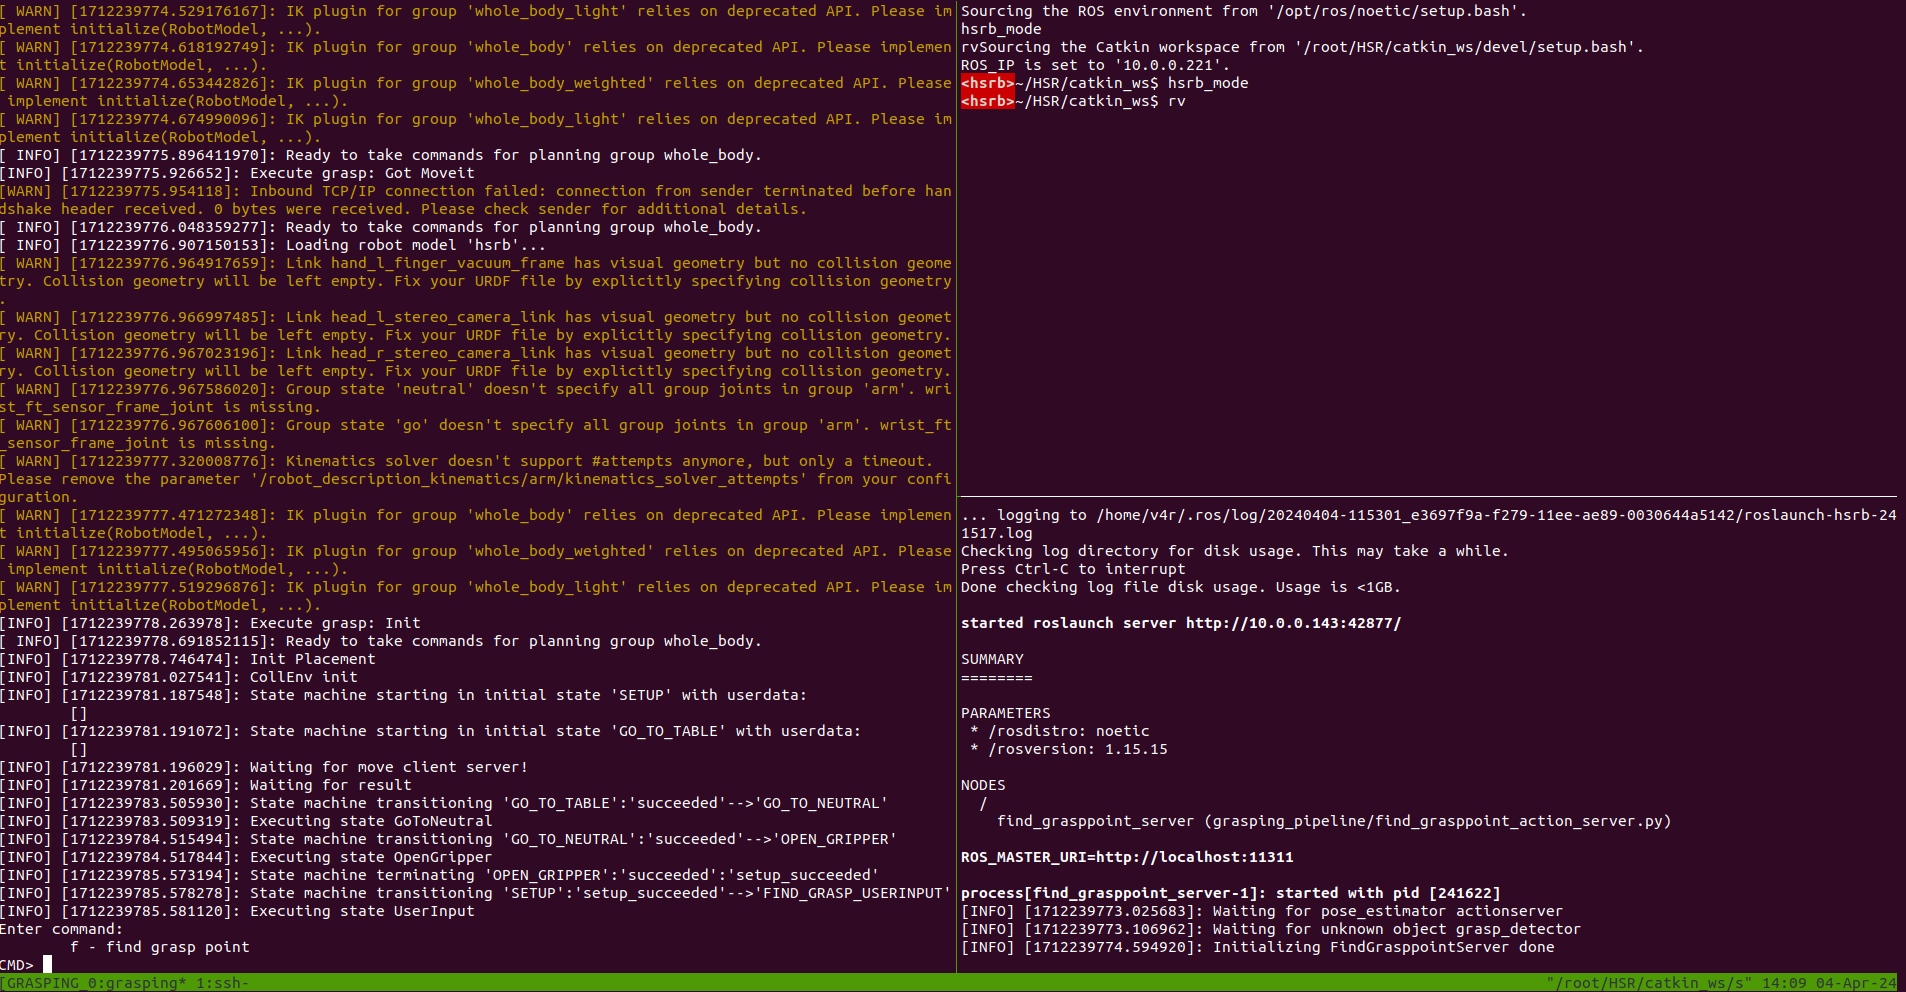
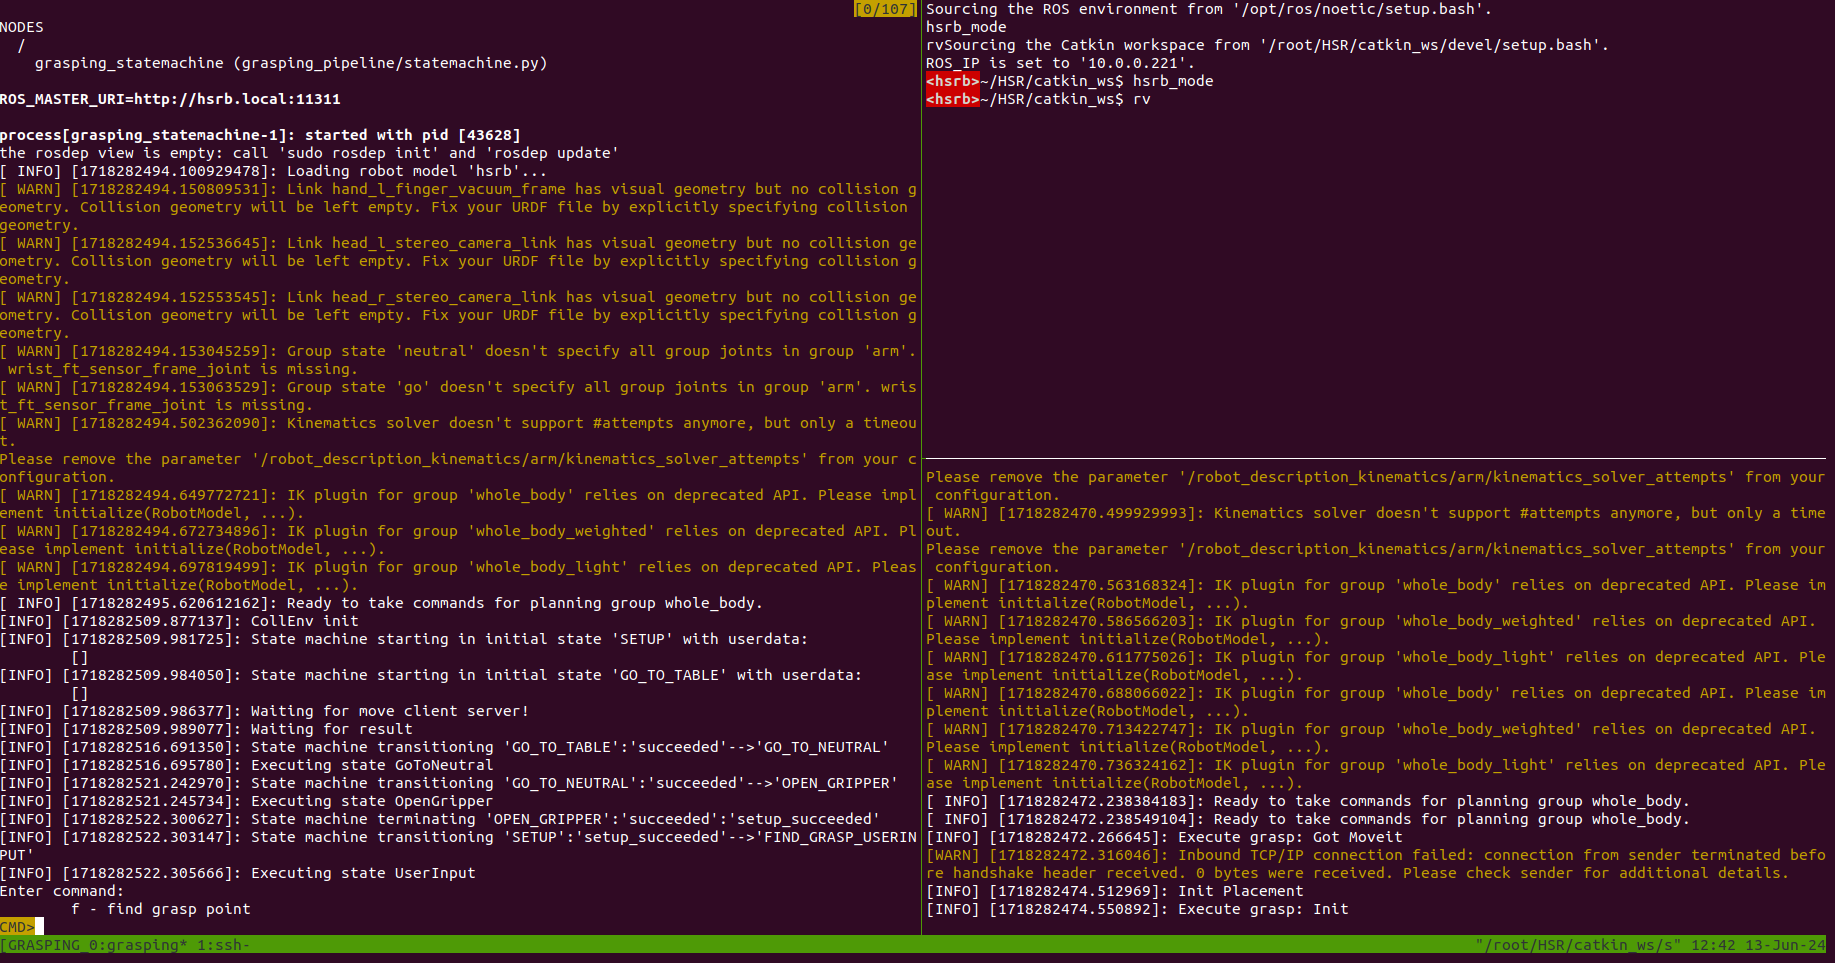
Update doc for new statemachine

Changed region(s): [[0.0, 0.0, 1.0, 1.0]]

diff --git a/docs/source/adding_new_estimators.rst b/docs/source/adding_new_estimators.rst
@@ -1,0 +1,131 @@
+Adding a new estimator or detector to the grasping pipeline
+===========================================================
+
+The grasping pipeline is designed to be modular and can be extended with new object detection, pose estimation or grasp pose estimation models. 
+This document describes how to add new models to the grasping pipeline.
+
+The model should be ROS compatible and should expose an action server that uses the `robokudo_msgs/GenericImgProcAnnotatorAction` action message.
+
+.. code-block:: yaml
+
+    GenericImgProcAnnotatorAction:
+    #goal
+    sensor_msgs/Image rgb
+    sensor_msgs/Image depth
+    sensor_msgs/RegionOfInterest[] bb_detections
+    sensor_msgs/Image[] mask_detections
+    string[] class_names
+    string description
+    ---
+    #result
+    bool success
+    string result_feedback
+    sensor_msgs/RegionOfInterest[] bounding_boxes
+    int32[] class_ids
+    string[] class_names
+    float32[] class_confidences
+    sensor_msgs/Image image
+    geometry_msgs/Pose[] pose_results
+    string[] descriptions
+    ---
+    #feedback
+    string feedback
+
+Depending on the type of model you want to add, you will get different goals and are expected to return different results.
+
+============================
+Adding a new object detector
+============================
+
+To make a new object detection model compatible with the grasping pipeline you will need to create a ROS Wrapper for the model.
+
+The ROS Wrapper should expose an action server that uses the `robokudo_msgs/GenericImgProcAnnotatorAction` mentioned above.
+
+The object detector will only get the **rgb** and **depth** images as input.
+
+The object detector is expected to return the following fields:
+
+* **bounding_boxes(optional)**: The bounding boxes of the detected objects in the image. 
+* **class_names**: The name of the detected objects. In the case of known objects, the name is used to look up the grasp annotations.
+   Therefore, the names have to be identical to the names used in the `grasping_pipeline/models` and `grasping_pipeline/grasps` directories.
+   In the case of unknown objects, the name should be set to "Unknown" (Uppercase U!).
+* **class_confidences (optional)**: The confidence of the detection.
+* **image (optional)**: This should be an image with the same dimensions as the input rgb image. 
+   The image should be a label image (with dtype=int) where each object pixel is labeled with a unique id (eg. pixels of object A == 1, pixels of object B == 2). "No Object" pixels MUST be encoded with -1.
+   So basically, the image shows the segmentation masks of the detected objects.
+
+The object detector should return either the bounding boxes or the image. If only the image is returned, the grasping pipeline will calculate the bounding boxes from the label image.
+
+To get the camera intrinsics, your wrapper should listen to the topic specified by the `cam_info_topic` rosparam parameter.
+
+===========================
+Adding a new pose estimator
+===========================
+
+To make a new pose estimation model compatible with the grasping pipeline you will need to create a ROS Wrapper for the model.
+
+The ROS Wrapper should expose an action server that uses the `robokudo_msgs/GenericImgProcAnnotatorAction` mentioned above.
+
+The pose estimator will get the following fields as input:
+
+* **rgb**: The rgb image of the scene.
+* **depth**: The depth image of the scene.
+* **bb_detections**: The bounding boxes of the detected objects in the image.
+* **mask_detections (optional)**: The segmentation masks of the detected objects in the image.
+* **class_names**: The name of the detected objects. In the case of unknown objects, the name is set to "Unknown" (Uppercase U!).
+* **description**: A string in json format, which is used to pass the confidence scores from the object detector. The format is as follows: "{obj_name: confidence, obj_name2: confidence}". 
+   You can simply use the json library to parse the string and get a python dictionary that you can index with the object names to get the confidence scores.
+
+The pose estimator is expected to return the following fields:
+
+* **pose_results**: The pose of each object relative to the rgb/depth camera frame.
+* **class_names**: The name of the objects whose pose was estimated. The name is used to look up the grasp annotations. Therefore, the names have to be identical to the names used in the `grasping_pipeline/models` and `grasping_pipeline/grasps` directories.
+* **class_confidences (optional)**: The confidence of the objects whose pose was estimated. If your pose estimator does not return confidences, you can set the confidence to 1.0 for each object or you can pass the confidences from the object detector (but make sure that you only return the confidences from the object who actually got a pose estimation).
+
+To get the camera intrinsics, your wrapper should listen to the topic specified by the `cam_info_topic` rosparam parameter.
+
+=================================
+Adding a new grasp pose estimator
+=================================
+
+To make a new grasp pose estimation model compatible with the grasping pipeline you will need to create a ROS Wrapper for the model.
+
+The ROS Wrapper should expose an action server that uses the `robokudo_msgs/GenericImgProcAnnotatorAction` mentioned above.
+
+The grasp pose estimator will get the following fields as input:
+
+* **rgb**: The rgb image of the scene.
+* **depth**: The depth image of the scene.
+* **bb_detections**: The bounding boxes of the detected objects in the image.
+* **mask_detections (optional)**: The segmentation masks of the detected objects in the image.
+* **class_names**: The name of the detected objects. In the case of unknown objects, the name is set to "Unknown" (Uppercase U!).
+
+The grasp pose estimator is expected to return the following fields:
+
+* **pose_results**: The grasp pose of each object relative to the rgb/depth camera frame.
+* **class_names**: The name of the objects whose grasp pose was estimated.
+* **class_confidences (optional)**: The confidence of the objects whose grasp pose was estimated. If your grasp pose estimator does not return confidences, you can set the confidence to 1.0 for each object or you can pass the confidences from the object detector (but make sure that you only return the confidences from the object who actually got a grasp pose estimation).
+
+
+To get the camera intrinsics, your wrapper should listen to the topic specified by the `cam_info_topic` rosparam parameter.
+
+=====================================
+Updating the grasping pipeline config
+=====================================
+
+To actually use the new pose estimator, you will need to update the `grasping_pipeline/config/config.yaml` file and restart the grasping pipeline.
+
+.. code-block:: yaml
+
+   grasping_pipeline:
+      object_detector_topic: /object_detector/yolov5                      # object detector for known OR unknown objects
+                                                                          # decides whether a pose estimator or a grasp point 
+                                                                          # estimator is used afterwards
+      pose_estimator_topic: /pose_estimator/gdrnet                        # pose estimator for known objects
+      grasppoint_estimator_topic: /pose_estimator/find_grasppose_haf      # grasppoint estimator for unknown objects
+
+The object_detector_topic should be set to the topic of the new object detector.
+
+The pose_estimator_topic should be set to the topic of the new pose estimator.
+
+The grasppoint_estimator_topic should be set to the topic of the new grasp pose estimator.

diff --git a/docs/source/startup.rst b/docs/source/startup.rst
@@ -59,7 +59,7 @@ This should open up a tmux session.
     .. code-block:: console
 
         $ ssh-keygen
-        $ ssh-copy-id v4r@hsrb.local
+        $ ssh-copy-id -i ~/.ssh/NAME_OF_THE_KEY.pub v4r@hsrb.local
     
     This creates a key pair and copies the public key to sasha. You should now be able to connect to sasha without entering a password.
 
@@ -69,7 +69,7 @@ Tmux session layout
 When starting the grasping pipeline, a tmux session is created. The tmux session is divided into two windows and multiple panes. 
 
 The first window you will see is the window for the grasping pipeline. It is divided into three panes. 
-The first pane is for the grasping pipeline nodes that are running locally, the second pane is for the rviz visualization and the third pane is for the grasping pipeline nodes running on sasha.
+The first pane is for the statemachine, the second pane is for the rviz visualization and the third pane is for running all grasping-pipeline nodes.
 
 .. note::
     Generally, most nodes are running locally because the development computer is much more powerful than sasha. 
@@ -83,10 +83,11 @@ None of the panes are running when the tmux session is started. You can start th
 You should start the nodes in the following order:
 
 1. Start the pose estimator and wait until it is running (optional). By default the table plane extractor is used to estimate the pose of the object. If this is sufficient for your use case, you don't have to do anything. However, if you want to use another pose estimator, you should start it before starting the grasping pipeline. Additionally you need to update the ```config/config.yaml``` file to use the new pose estimator.
-2. Start both the local and sasha grasping pipeline nodes.
-3. Open rviz if needed.
+2. Start the locally running nodes by navigating to the lower-right pane and pressing enter. 
+3. Wait for a couple of seconds and then start the statemachine by navigating to the left pane and pressing enter.
+4. Open rviz if needed.
 
-Additionally, there is a second window in the tmux session. This window only has one pane which is used to automatically start MoveIt. MoveIt is also running on sasha because of the high bandwith requirements.
+Additionally, there is a second window in the tmux session. This window only has one pane which is used to automatically start MoveIt. MoveIt is running on sasha because of the high bandwith requirements.
 
 .. image:: images/tmux_panes2.svg
     :width: 80%
@@ -100,7 +101,7 @@ The grasping pipeline succesfully started if you see the following output in the
     :width: 80%
     :align: center
 
-You should see the user input prompt in the left pane and the message "Initializing FindGrasppointServer done" in the lower right pane.
+You should see the user input prompt in the left pane and the messages "Init Placement" and "Execute grasp: Init" in the lower-right pane.
 
 The MoveIt window should show the message "You can start planning now!":
 

diff --git a/docs/source/overview_state_machine.rst b/docs/source/overview_state_machine.rst
@@ -14,7 +14,7 @@ The following diagram shows the structure of the statemachine:
 
 It currently consists of 5 main components:
 
-* FindGrasp: This component is responsible for calling the pose estimator and finding grasp points for the robot.
+* FindGrasp: This component is responsible for calling the object detector, pose estimator and grasp pose estimator to find graspable objects and return the grasp pose(s) for these objects.
 * ExecuteGrasp: This component is responsible for executing the grasp(s) that was found by the FindGrasp component. It also updates the collision environment.
 * RobotSetup: This component is responsible for moving the robot and all of its joints into a predefined position.
 * Placement: This component is responsible for placing the grasped, known object to its appointed location.
@@ -26,16 +26,14 @@ Each of these components is implemented as a state machine (and therefore consis
 =========
 FindGrasp
 =========
-The FindGrasp component calls the pose estimator to get the estimated poses for each of the objects detected in the scene. 
-
-In the case of known object pose estimation, it uses the name to lookup the grasp annotations for that object. In the case of unknown object pose estimation an unknown object grasp pose estimator is called to get the grasp pose. 
+The FindGrasp component fetches the newest RGB and depth images from the camera and passes those to an object detector. If the detected objects are known objects the component calls a pose_estimator and uses the name of the object to look up the grasp annotations for that object. 
+If the detected objects are unknown objects the component calls an unknown object grasp pose estimator to get the grasp pose without calling a pose estimator.
 
 
 Outcomes
 --------
-* **succeeded**: The grasp was found successfully.
-* **aborted**: No object or grasp was found.
-* **preempted**: This outcome is currently not used.
+* **end_find_grasp**: The grasp was found successfully.
+* **failed**: No object or grasp was found. This is also returned if the object detector/pose estimator/grasp pose estimator raise an exception.
 
 Inputs
 ------

diff --git a/docs/source/index.rst b/docs/source/index.rst
@@ -18,7 +18,7 @@ The pipeline is implemented in Python and uses the Robot Operating System (ROS) 
 
    installation
    startup
-   run_new_pose_estimator
+   adding_new_estimators
    overview_state_machine
    details_state_machine
    api
